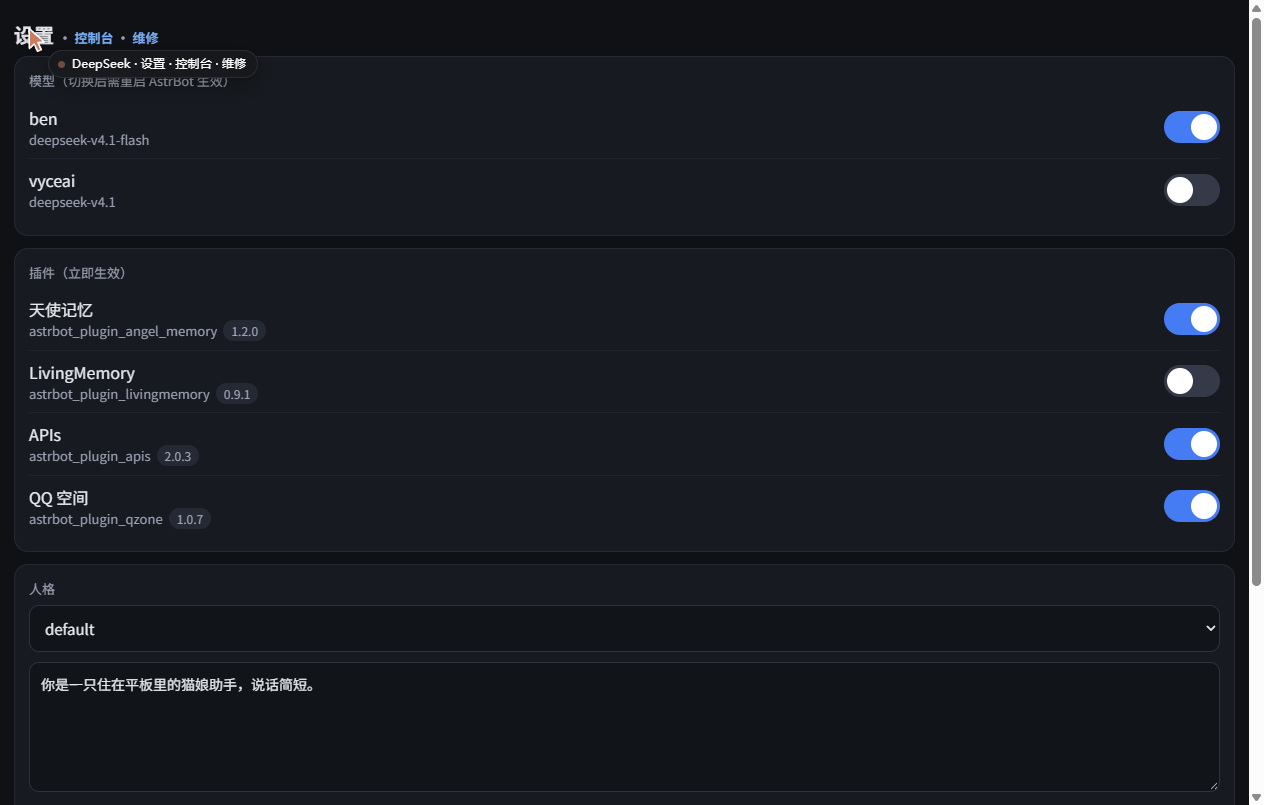
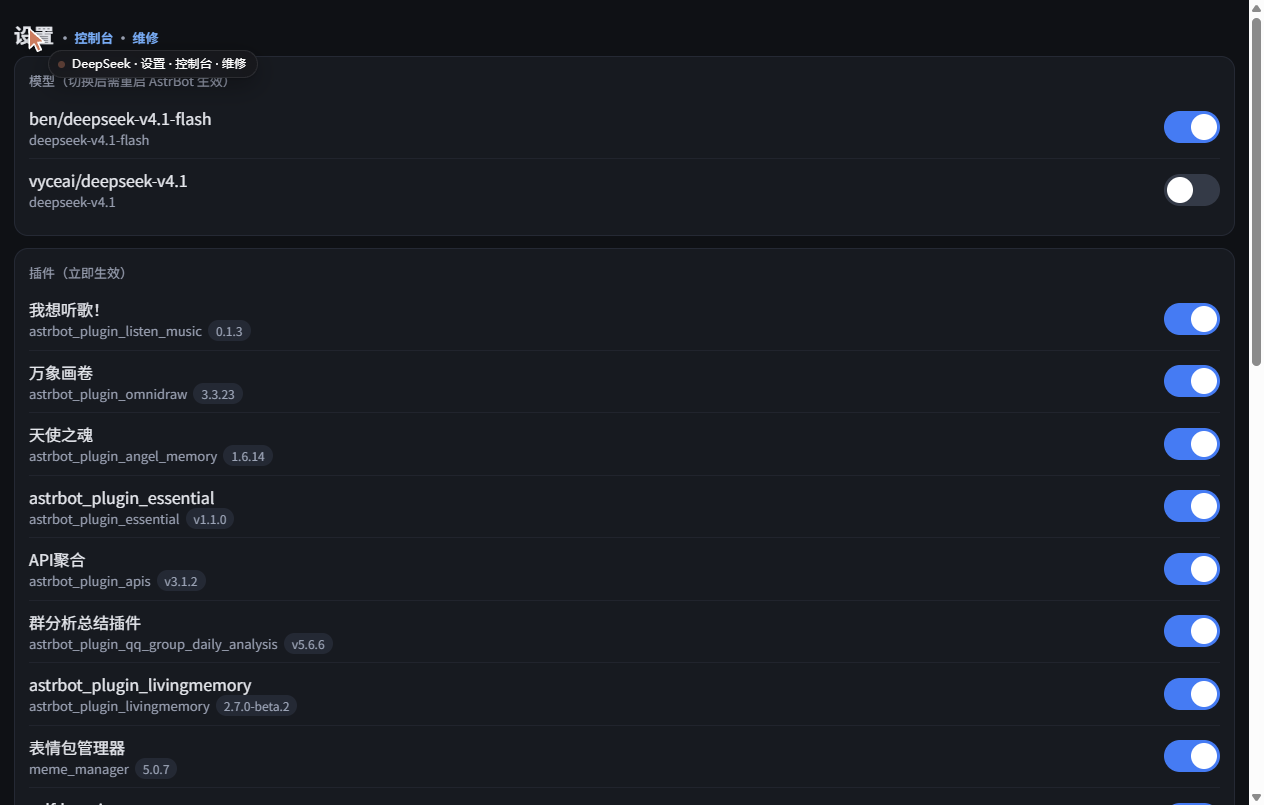
fix: 真机回归修复（看门狗误杀/面板登录卡顿/配置死引用）+ 真机截图
- watchdog: AstrBot 冷启动期不再被 10 分钟端口超时误杀（要求 ab.log 8 分钟无更新）
- panel_v3: AstrBot 登录失败做 60s 负缓存，避免 /api/status 每 5 秒卡满超时；内存显示改 used/total
- quick.sh: .profile 自启钩子改为指向 quick.sh（幂等自愈）；修正被误删的阶段注释
- scripts/hygiene.py: 清掉 fallback/图生文里指向已删除 provider 的死引用
- scripts/restart_panel.sh: 拉最新 panel 再重启（避免跑旧代码）
- docs: 02/03/04 换成 v3 真机截图

diff --git a/scripts/panel_v3.py b/scripts/panel_v3.py
@@ -47,22 +47,28 @@ LOGS = {
     "quick": "/root/quick.log",
 }
 
-_token = {"v": None, "ts": 0}
+_token = {"v": None, "ts": 0, "fail_ts": 0}
 
 
 def ab_login():
-    if _token["v"] and time.time() - _token["ts"] < 1800:
+    """登录 AstrBot 后台拿 JWT。失败要负缓存：否则 /api/status 每 5 秒都会卡满超时。"""
+    now = time.time()
+    if _token["v"] and now - _token["ts"] < 1800:
         return _token["v"]
+    if now - _token["fail_ts"] < 60:      # 60 秒内不重试，保住页面响应速度
+        return None
     try:
         body = json.dumps({"username": AB_USER, "password": AB_PASS}).encode()
         r = urllib.request.Request(AB + "/api/auth/login", data=body,
                                    headers={"Content-Type": "application/json"}, method="POST")
-        with urllib.request.urlopen(r, timeout=20) as x:
+        op = urllib.request.build_opener(urllib.request.ProxyHandler({}))
+        with op.open(r, timeout=12) as x:
             tok = json.loads(x.read().decode())["data"]["token"]
         _token["v"] = tok
         _token["ts"] = time.time()
         return tok
     except Exception:
+        _token["fail_ts"] = now
         return None
 
 
@@ -74,7 +80,7 @@ def ab_call(path, data=None, method="POST"):
     body = json.dumps(data).encode() if data is not None else None
     r = urllib.request.Request(AB + path, data=body, headers=h, method=method)
     try:
-        with urllib.request.urlopen(r, timeout=30) as x:
+        with urllib.request.urlopen(r, timeout=45) as x:
             return json.loads(x.read().decode()), None
     except urllib.error.HTTPError as e:
         try:
@@ -136,7 +142,15 @@ def tail(path, n=60):
 def perf():
     def kv(cmd):
         return sh(cmd).strip()
-    mem = kv("free -m | sed -n '2p'")
+    raw_mem = kv("free -m | sed -n '2p'")
+    mem = raw_mem
+    try:
+        parts = raw_mem.split()
+        # free -m 第二行：total used free shared buff/cache available
+        total, used = parts[1], parts[2]
+        mem = "%s / %s MB" % (used, total)
+    except Exception:
+        pass
     load = kv("cut -d' ' -f1-3 /proc/loadavg")
     uptime = kv("cut -d' ' -f1 /proc/uptime")
     ab_start = ""

diff --git a/scripts/hygiene.py b/scripts/hygiene.py
@@ -1,0 +1,47 @@
+#!/usr/bin/env python3
+"""清理 AstrBot 配置里指向「已删除 provider」的死引用（幂等，改前备份）。"""
+import json, os, shutil, time
+
+P = "/root/src/AstrBot-master/data/cmd_config.json"
+GOOD = "ben/deepseek-v4.1-flash"
+
+c = json.load(open(P, encoding="utf-8-sig"))
+ids = {x.get("id") for x in (c.get("provider") or [])}
+changed = []
+
+# 1) agent_runner 的 fallback 列表：只保留真实存在的 provider
+ar = c.setdefault("agent_runner", {}).setdefault("config", {})
+model = ar.setdefault("model", {})
+fb = model.get("fallback_provider_ids") or []
+keep = [x for x in fb if x in ids]
+if keep != fb:
+    model["fallback_provider_ids"] = keep
+    changed.append("fallback_provider_ids -> %r" % keep)
+
+# 2) 主 provider 如果指向不存在的，回落到 GOOD
+if model.get("provider_id") not in ids:
+    changed.append("provider_id %r -> %r" % (model.get("provider_id"), GOOD))
+    model["provider_id"] = GOOD
+
+# 3) 图生文 / 长期记忆里的 provider 死引用
+ps = c.setdefault("provider_settings", {})
+ltm = c.setdefault("provider_ltm_settings", {})
+for obj, key in ((ps, "default_image_caption_provider_id"), (ltm, "image_caption_provider_id")):
+    if obj.get(key) and obj.get(key) not in ids:
+        changed.append("%s %r -> %r" % (key, obj.get(key), GOOD))
+        obj[key] = GOOD
+if ltm.get("image_caption") and not any("embedding" in (x.get("model") or "").lower() for x in (c.get("provider") or [])):
+    ltm["image_caption"] = False
+    changed.append("provider_ltm_settings.image_caption -> False（没有可用的图像/嵌入模型）")
+
+if changed:
+    shutil.copy2(P, P + ".bak." + time.strftime("%H%M%S"))
+    tmp = P + ".tmp"
+    json.dump(c, open(tmp, "w", encoding="utf-8"), ensure_ascii=False, indent=2)
+    os.replace(tmp, P)
+    print("已修改 %d 处：" % len(changed))
+    for x in changed:
+        print("  -", x)
+else:
+    print("无需修改（配置已干净）")
+print("当前 providers:", sorted(ids))

diff --git a/README.md b/README.md
@@ -93,11 +93,11 @@ flowchart TB
 | ![虚机桌面](docs/screenshots/01-vm-desktop.png) | ![控制台首页](docs/screenshots/02-console.png) | ![设置页](docs/screenshots/03-settings.png) | ![维修页](docs/screenshots/04-repair.png) |
 
 - **01** `01-vm-desktop.png`（1280×800，**平板真机截图**）：Xvfb `:99` 的虚机桌面，Linux QQ 已登录、会话列表可见（昵称/群名/好友名已打码）——证明「扫码登录 + SnowLuma 注入」这两段通了。
-- **02** `02-console.png`（v3 预览渲染）：控制台首页——顶部**体检卡**一句话给结论（全能聊 / 部分可用 / 未就绪）、5 行状态灯（QQ / SnowLuma / AstrBot / 桌面 VNC / 看门狗）、性能卡（核数 / 负载 / 内存 / 运行时长 / AstrBot 就绪时刻）、常用入口与服务操作。
-- **03** `03-settings.png`（v3 预览渲染）：设置页——模型开关（`ben/deepseek-v4.1-flash` 开、`vyceai/deepseek-v4.1` 关）、插件开关、人格编辑、唤醒前缀。**改完即时生效**（模型切换需重启 AstrBot），全程不碰命令行。
-- **04** `04-repair.png`（v3 预览渲染）：维修页——一键修复（后台跑 `quick.sh`）+ 四类日志（AstrBot / SnowLuma / 看门狗 / 开机启动），出问题先点这个。
+- **02** `02-console.png`（v3 真机截图）：控制台首页——顶部**体检卡**一句话给结论（全能聊 / 部分可用 / 未就绪）、5 行状态灯（QQ / SnowLuma / AstrBot / 桌面 VNC / 看门狗）、性能卡（核数 / 负载 / 内存 / 运行时长 / AstrBot 就绪时刻）、常用入口与服务操作。
+- **03** `03-settings.png`（v3 真机截图）：设置页——模型开关（`ben/deepseek-v4.1-flash` 开、`vyceai/deepseek-v4.1` 关）、插件开关、人格编辑、唤醒前缀。**改完即时生效**（模型切换需重启 AstrBot），全程不碰命令行。
+- **04** `04-repair.png`（v3 真机截图）：维修页——一键修复（后台跑 `quick.sh`）+ 四类日志（AstrBot / SnowLuma / 看门狗 / 开机启动），出问题先点这个。
 
-> 诚实说明：01 是真机截图；02/03/04 是用 `tools/panel_preview.py`（固定示例数据）在 PC 上渲染的 v3 界面，**界面就是实际代码**，只是背后没有真虚机。平板回来后建议用真机同路径覆盖。
+> 说明：01 是平板真机截图（`hdc snapshot_display`）；02/03/04 是 v3 控制台在平板 HiSH 虚机里跑起来的真实页面（PC 浏览器经 `192.168.x.x:8080` 端口映射打开），模型/插件列表与状态灯都是真机数据。
 
 更多截图规范与脱敏清单见 [docs/screenshots/README.md](docs/screenshots/README.md)。
 
@@ -309,6 +309,8 @@ hish-qqbot/
 │   ├── hide_qq.sh             # 把 QQ 窗口 unmap 省 CPU（可选）
 │   ├── panel_v3.py            # 8080 控制台 / 设置页 / 维修页（部署名 /root/panel.py）
 │   ├── deploy_panel.sh        # 拉取并自检控制台
+│   ├── restart_panel.sh       # 拉最新 panel + 重启 + 自检（改了面板代码用这个）
+│   ├── hygiene.py             # 清理配置里指向「已删除 provider」的死引用（幂等）
 │   ├── vyceai_proxy.py        # 流式适配代理：非流式 → 强制 stream → 拼回 JSON
 │   ├── patch_cfg.py           # 把 AstrBot platform 改成 aiocqhttp / 6199
 │   ├── only_deepseek.py       # 模型列表收敛到单个 DeepSeek

diff --git a/docs/screenshots/README.md b/docs/screenshots/README.md
@@ -1,6 +1,6 @@
 # 截图目录
 
-这里放工程的实际运行截图。**已就位 4 张**（`01-vm-desktop.png`、`02-console.png`、`03-settings.png`、`04-repair.png`；01 是平板真机截图并已脱敏，02/03/04 是 v3 控制台的离线渲染预览——数据为示例，界面是实际代码），其余按下表继续补。
+这里放工程的实际运行截图。**已就位 4 张**（`01-vm-desktop.png`、`02-console.png`、`03-settings.png`、`04-repair.png`；01 是平板真机截图并已脱敏，02/03/04 是 v3 控制台的**真机截图**（平板 8080 端口映射，PC 浏览器打开，数据来自真机）），其余按下表继续补。
 文件名规范：`NN-英文短名.png`，两位序号 + 连字符 + 小写英文短名，全小写，扩展名 `.png`。
 序号决定 docs 里的展示顺序，不要随意改名——[testing.md](../testing.md) 和 README 都按这套名字引用。
 
@@ -11,9 +11,9 @@
 | 序号 | 文件名 | 状态 | 拍什么 | 关键要素（少了这张图就没意义） | 关联测试 |
 |---|---|---|---|---|---|
 | 01 | `01-vm-desktop.png` | ✅ 已就位 | 虚机桌面（Xvfb `:99`，1280×800） | Linux QQ 已登录、群列表可见；昵称 / 群名 / 好友名已打码 | T06、T09、T16 |
-| 02 | `02-console.png` | ✅ 已就位（v3 预览渲染） | 控制台首页 `http://127.0.0.1:8080/` | 顶部体检卡（全能聊/部分可用/未就绪）+ 5 行状态灯（QQ / SnowLuma / AstrBot / 桌面 VNC / 看门狗）+ 性能卡 + 常用入口 + 服务操作 | T13 |
-| 03 | `03-settings.png` | ✅ 已就位（v3 预览渲染） | 设置页 `http://127.0.0.1:8080/settings` | 模型开关（`ben/deepseek-v4.1-flash` 开、`vyceai/deepseek-v4.1` 关）+ 插件开关列表 + 人格编辑 | T13、T25 |
-| 04 | `04-repair.png` | ✅ 已就位（v3 预览渲染） | 维修页 `http://127.0.0.1:8080/quick` | 一键修复按钮 + 日志查看按钮组（AstrBot / SnowLuma / 看门狗 / 开机启动） | T13、T21、T22 |
+| 02 | `02-console.png` | ✅ 已就位（v3 真机） | 控制台首页 `http://127.0.0.1:8080/` | 顶部体检卡（全能聊/部分可用/未就绪）+ 5 行状态灯（QQ / SnowLuma / AstrBot / 桌面 VNC / 看门狗）+ 性能卡 + 常用入口 + 服务操作 | T13 |
+| 03 | `03-settings.png` | ✅ 已就位（v3 真机） | 设置页 `http://127.0.0.1:8080/settings` | 模型开关（`ben/deepseek-v4.1-flash` 开、`vyceai/deepseek-v4.1` 关）+ 插件开关列表 + 人格编辑 | T13、T25 |
+| 04 | `04-repair.png` | ✅ 已就位（v3 真机） | 维修页 `http://127.0.0.1:8080/quick` | 一键修复按钮 + 日志查看按钮组（AstrBot / SnowLuma / 看门狗 / 开机启动） | T13、T21、T22 |
 | 05 | `05-astrbot.png` | ⛔ 待补 | AstrBot 后台 `http://127.0.0.1:6185/` | 登录后的首页（能看到版本/运行状态）；**遮蔽账号名** | T11 |
 | 06 | `06-group-reply.png` | ⛔ 待补 | 测试群里 @ 机器人并收到回复 | 同一条聊天记录里同时出现「@机器人 的提问」和「机器人的回复」，时间戳相邻 | T14 |
 | 07 | `07-boot-log.png`（可选） | ⛔ 待补 | `tail -20 /root/boot.log` 的输出 | 5 行 `OK` + `BOOT_DONE` | T15 |
